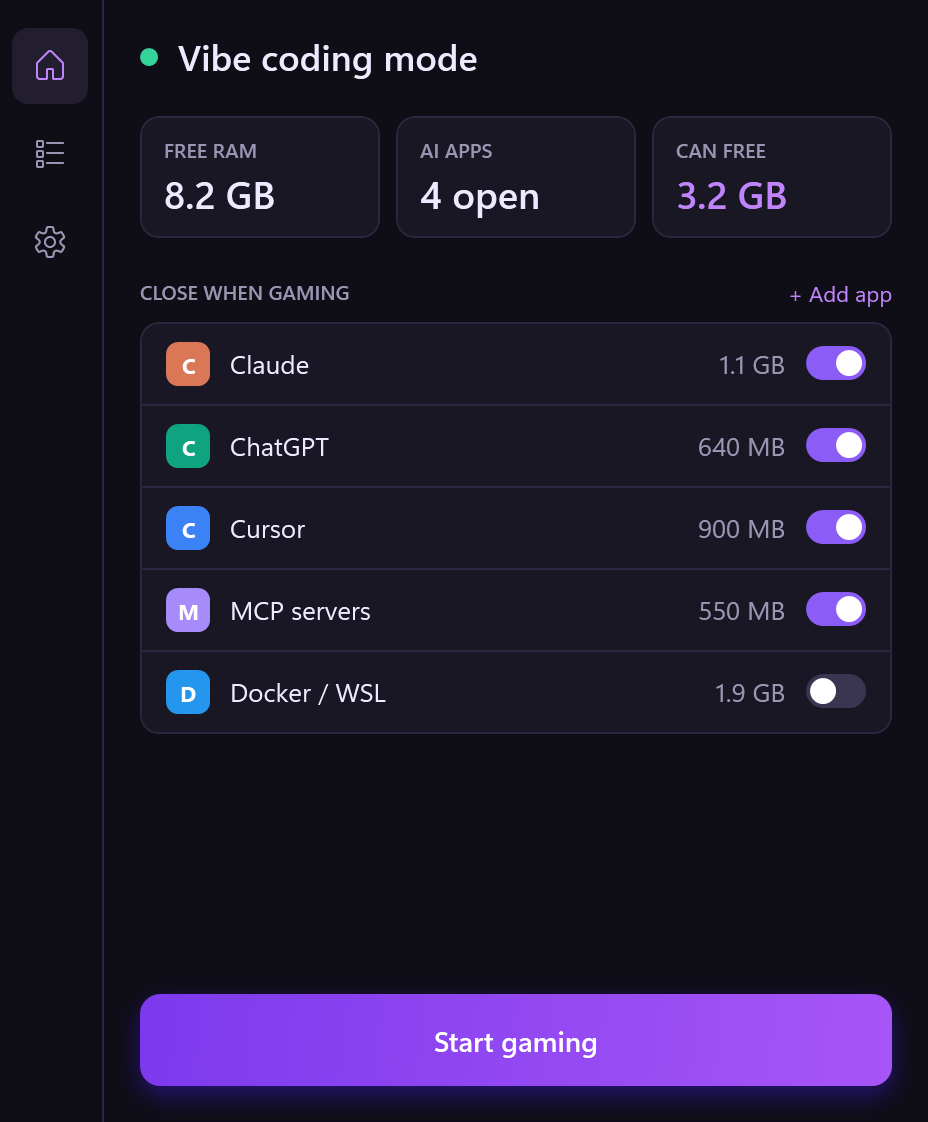
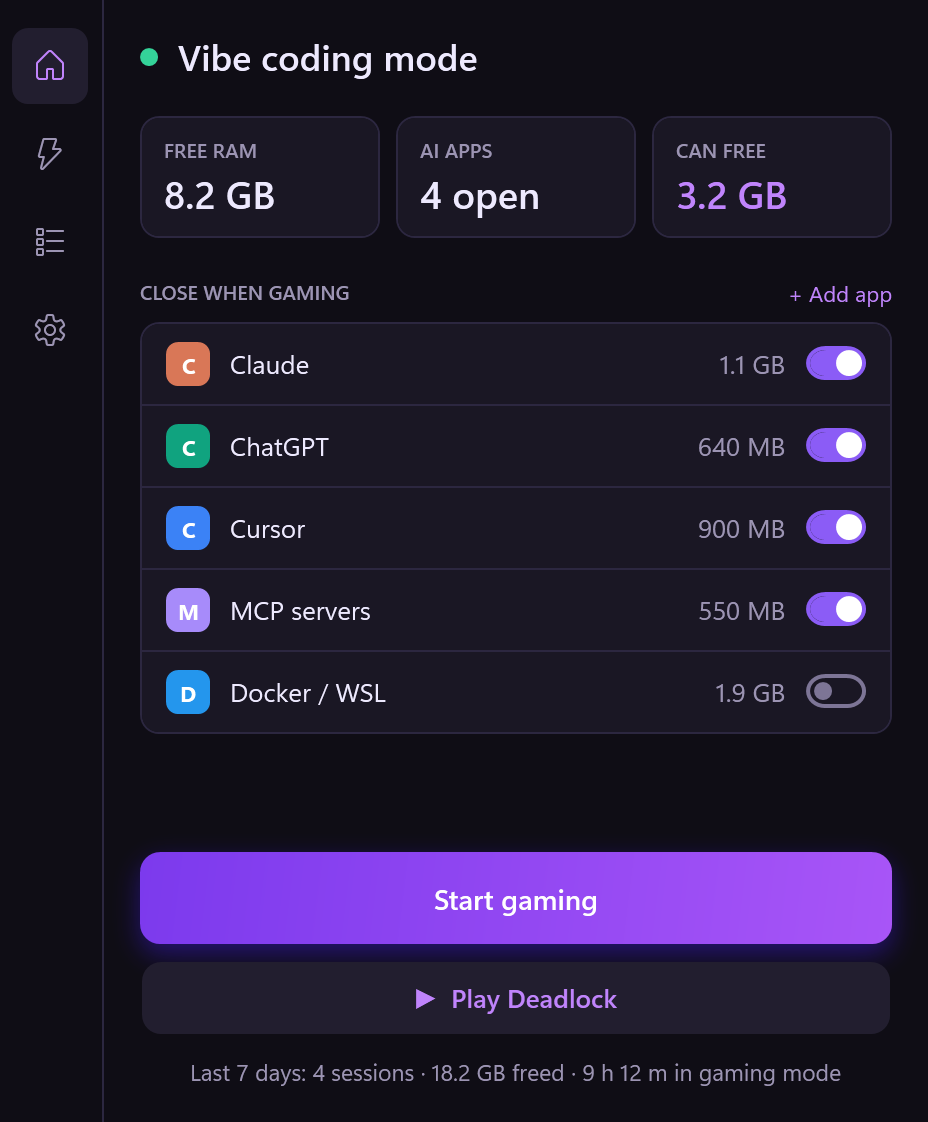
feat(ui): follow Windows High Contrast; name every control
With Windows High Contrast on, VibeShift kept its purple theme, ignoring
the colours the user picked to be able to read the screen. A fourth
theme dictionary now maps every brush to SystemColors (window, window
text, highlight, highlight text) and wins over the app's own theme; it
reloads when High Contrast is switched or changed (Accessibility/Color
preference events). Text and knobs on the accent were hardcoded White,
unreadable on a light system highlight, so they use a new OnAccentBrush
(White in Dark/Light, HighlightText in High Contrast). `--screenshot
--theme contrast` renders it with this PC's system colours.

Screen readers: the Theme and Force-close pickers had no name, every
Remove button was just "Remove app"/"Remove game", and a Vibe row's
status ("couldn't open") was unreachable from its switch. The pickers
are named, each Remove names its app or game, and the status is the
switch's HelpText.

README screenshots (from 1.0, before Play, stats and the new switches)
are regenerated from this build.

Found by the audit of 9a8e271 (findings 7 and 14).

diff --git a/src/VibeShift/MainWindow.xaml b/src/VibeShift/MainWindow.xaml
@@ -151,7 +151,8 @@
                                         <DockPanel>
                                             <CheckBox DockPanel.Dock="Right" Style="{StaticResource ToggleSwitch}" IsChecked="{Binding IsOpen}"
                                                       IsEnabled="{Binding CanSwitch}" VerticalAlignment="Center"
-                                                      AutomationProperties.Name="{Binding Name, StringFormat='{}{0} open'}" />
+                                                      AutomationProperties.Name="{Binding Name, StringFormat='{}{0} open'}"
+                                                      AutomationProperties.HelpText="{Binding Status}" />
                                             <Border Width="22" Height="22" CornerRadius="6" Background="{Binding BadgeBrush}">
                                                 <TextBlock Text="{Binding BadgeLetter}" Foreground="White" FontSize="11" FontWeight="Bold"
                                                            HorizontalAlignment="Center" VerticalAlignment="Center" />
@@ -254,7 +255,8 @@
                 <Border Style="{StaticResource Tile}">
                     <DockPanel>
                         <ListBox DockPanel.Dock="Right" Style="{StaticResource Segmented}" ItemsSource="{Binding ThemeOptions}"
-                                 DisplayMemberPath="Label" SelectedValuePath="Value" SelectedValue="{Binding Theme}" />
+                                 DisplayMemberPath="Label" SelectedValuePath="Value" SelectedValue="{Binding Theme}"
+                                 AutomationProperties.Name="Theme" />
                         <TextBlock Text="Theme" VerticalAlignment="Center" />
                     </DockPanel>
                 </Border>
@@ -293,7 +295,7 @@
                                 <DataTemplate>
                                     <DockPanel Margin="0,3,0,0">
                                         <Button DockPanel.Dock="Right" Style="{StaticResource IconButton}" Content="&#xE711;" Click="RemoveGame_Click"
-                                                ToolTip="Remove" AutomationProperties.Name="Remove game" />
+                                                ToolTip="Remove" AutomationProperties.Name="{Binding StringFormat='Remove {0}'}" />
                                         <TextBlock Text="{Binding}" ToolTip="{Binding}" VerticalAlignment="Center" TextTrimming="CharacterEllipsis" FontSize="12" />
                                     </DockPanel>
                                 </DataTemplate>
@@ -309,7 +311,8 @@
                         <TextBlock Style="{StaticResource Hint}" Margin="0,2,0,9"
                                    Text="When you click Start gaming, apps get this long to close on their own. Auto mode closes them right away." />
                         <ListBox Style="{StaticResource Segmented}" HorizontalAlignment="Left" ItemsSource="{Binding ForceCloseOptions}"
-                                 ItemStringFormat="{}{0} s" SelectedItem="{Binding ForceCloseSeconds}" />
+                                 ItemStringFormat="{}{0} s" SelectedItem="{Binding ForceCloseSeconds}"
+                                 AutomationProperties.Name="Force-close after" />
                     </StackPanel>
                 </Border>
 
@@ -494,7 +497,7 @@
                               AutomationProperties.Name="{Binding Name, StringFormat='Open {0} when vibing'}"
                               Visibility="{Binding CanVibe, Converter={StaticResource Visible}}" />
                     <Button Grid.Column="6" Style="{StaticResource IconButton}" Content="&#xE711;" Width="22" Click="RemoveApp_Click"
-                            ToolTip="Remove" AutomationProperties.Name="Remove app"
+                            ToolTip="Remove" AutomationProperties.Name="{Binding Name, StringFormat='Remove {0}'}"
                             Visibility="{Binding IsCustom, Converter={StaticResource Visible}}" />
                 </Grid>
             </Border>

diff --git a/src/VibeShift/Themes/HighContrast.xaml b/src/VibeShift/Themes/HighContrast.xaml
@@ -1,0 +1,21 @@
+<ResourceDictionary xmlns="http://schemas.microsoft.com/winfx/2006/xaml/presentation"
+                    xmlns:x="http://schemas.microsoft.com/winfx/2006/xaml">
+    <!-- Windows High Contrast: every key comes from the user's own contrast theme (read again whenever it changes).
+         Flat surfaces, text-coloured borders, the system highlight for accents and on-switches. -->
+    <x:Static x:Key="BgColor" Member="SystemColors.WindowColor" />
+    <x:Static x:Key="TextColor" Member="SystemColors.WindowTextColor" />
+    <x:Static x:Key="BgBrush" Member="SystemColors.WindowBrush" />
+    <x:Static x:Key="SurfaceBrush" Member="SystemColors.WindowBrush" />
+    <x:Static x:Key="RaisedBrush" Member="SystemColors.WindowBrush" />
+    <x:Static x:Key="BorderBrush" Member="SystemColors.WindowTextBrush" />
+    <x:Static x:Key="TextBrush" Member="SystemColors.WindowTextBrush" />
+    <x:Static x:Key="MutedBrush" Member="SystemColors.WindowTextBrush" />
+    <x:Static x:Key="AccentBrush" Member="SystemColors.HighlightBrush" />
+    <x:Static x:Key="HighlightBrush" Member="SystemColors.HighlightBrush" />
+    <x:Static x:Key="OnAccentBrush" Member="SystemColors.HighlightTextBrush" />
+    <x:Static x:Key="ToggleOffBrush" Member="SystemColors.WindowTextBrush" />
+    <x:Static x:Key="CodingDotBrush" Member="SystemColors.HighlightBrush" />
+    <x:Static x:Key="RunningTextBrush" Member="SystemColors.WindowTextBrush" />
+    <x:Static x:Key="GamingDotBrush" Member="SystemColors.HighlightBrush" />
+    <x:Static x:Key="ButtonGradientBrush" Member="SystemColors.HighlightBrush" />
+</ResourceDictionary>

diff --git a/src/VibeShift/Themes/Controls.xaml b/src/VibeShift/Themes/Controls.xaml
@@ -25,7 +25,7 @@
                         <Trigger Property="IsChecked" Value="True">
                             <Setter TargetName="Track" Property="Background" Value="{DynamicResource AccentBrush}" />
                             <Setter TargetName="Track" Property="BorderBrush" Value="{DynamicResource AccentBrush}" />
-                            <Setter TargetName="Knob" Property="Fill" Value="White" />
+                            <Setter TargetName="Knob" Property="Fill" Value="{DynamicResource OnAccentBrush}" />
                             <Setter TargetName="Knob" Property="Width" Value="13" />
                             <Setter TargetName="Knob" Property="Height" Value="13" />
                             <Setter TargetName="Knob" Property="Margin" Value="2,0" />
@@ -45,7 +45,7 @@
 
     <!-- Purple gradient call to action with a soft glow -->
     <Style x:Key="PrimaryButton" TargetType="Button">
-        <Setter Property="Foreground" Value="White" />
+        <Setter Property="Foreground" Value="{DynamicResource OnAccentBrush}" />
         <Setter Property="FontSize" Value="14" />
         <Setter Property="FontWeight" Value="SemiBold" />
         <Setter Property="Height" Value="46" />

diff --git a/src/VibeShift/Themes/Dark.xaml b/src/VibeShift/Themes/Dark.xaml
@@ -10,6 +10,7 @@
     <SolidColorBrush x:Key="MutedBrush" Color="#9c94b3" />
     <SolidColorBrush x:Key="AccentBrush" Color="#8b5cf6" />
     <SolidColorBrush x:Key="HighlightBrush" Color="#c084fc" />
+    <SolidColorBrush x:Key="OnAccentBrush" Color="White" />
     <!-- Off switches and scrollbar thumbs: 4.1:1 on Surface, 3.8:1 on Raised (WCAG 1.4.11 asks 3:1) -->
     <SolidColorBrush x:Key="ToggleOffBrush" Color="#7d7596" />
     <SolidColorBrush x:Key="CodingDotBrush" Color="#34d399" />

diff --git a/src/VibeShift/Themes/Light.xaml b/src/VibeShift/Themes/Light.xaml
@@ -10,6 +10,7 @@
     <SolidColorBrush x:Key="MutedBrush" Color="#6b6385" />
     <SolidColorBrush x:Key="AccentBrush" Color="#7c3aed" />
     <SolidColorBrush x:Key="HighlightBrush" Color="#7c3aed" />
+    <SolidColorBrush x:Key="OnAccentBrush" Color="White" />
     <!-- Off switches and scrollbar thumbs: 3.9:1 on white, 3.3:1 on Raised (WCAG 1.4.11 asks 3:1) -->
     <SolidColorBrush x:Key="ToggleOffBrush" Color="#857d9e" />
     <SolidColorBrush x:Key="CodingDotBrush" Color="#34d399" />

diff --git a/src/VibeShift/ThemeManager.cs b/src/VibeShift/ThemeManager.cs
@@ -20,16 +20,19 @@ public static class ThemeManager
 
     public static bool IsDark { get; private set; }
 
-    public static void Apply(ThemeChoice choice)
+    /// <param name="highContrast">Null follows Windows; the offscreen renderer forces it either way.</param>
+    public static void Apply(ThemeChoice choice, bool? highContrast = null)
     {
         current = choice;
-        IsDark = choice switch
+        // Windows High Contrast wins over the app's own theme: its colours are the user's, chosen to be readable.
+        bool contrast = highContrast ?? SystemParameters.HighContrast;
+        IsDark = contrast ? Luminance(SystemColors.WindowColor) < 0.5 : choice switch
         {
             ThemeChoice.Dark => true,
             ThemeChoice.Light => false,
             _ => SystemIsDark(),
         };
-        var name = IsDark ? "Dark" : "Light";
+        var name = contrast ? "HighContrast" : IsDark ? "Dark" : "Light";
         Application.Current.Resources.MergedDictionaries[0] =
             new ResourceDictionary { Source = new Uri($"pack://application:,,,/Themes/{name}.xaml") };
 
@@ -38,8 +41,10 @@ public static class ThemeManager
             hooked = true;
             SystemEvents.UserPreferenceChanged += (_, e) =>
             {
-                if (current == ThemeChoice.System && e.Category == UserPreferenceCategory.General)
-                    Application.Current.Dispatcher.BeginInvoke(() => Apply(ThemeChoice.System));
+                // Turning High Contrast on or off, or picking another contrast theme, arrives as Accessibility or Color.
+                if (e.Category is UserPreferenceCategory.Accessibility or UserPreferenceCategory.Color
+                    || (current == ThemeChoice.System && e.Category == UserPreferenceCategory.General))
+                    Application.Current.Dispatcher.BeginInvoke(() => Apply(current));
             };
         }
         foreach (Window w in Application.Current.Windows) ApplyChrome(w);
@@ -62,6 +67,8 @@ public static class ThemeManager
         Registry.GetValue(@"HKEY_CURRENT_USER\Software\Microsoft\Windows\CurrentVersion\Themes\Personalize", "AppsUseLightTheme", 1) is 0;
 
     private static int ColorRef(Color c) => c.R | (c.G << 8) | (c.B << 16);
+
+    private static double Luminance(Color c) => (0.2126 * c.R + 0.7152 * c.G + 0.0722 * c.B) / 255;
 
     [DllImport("dwmapi.dll")]
     private static extern int DwmSetWindowAttribute(IntPtr hwnd, int attribute, ref int value, int size);

diff --git a/src/VibeShift/App.xaml.cs b/src/VibeShift/App.xaml.cs
@@ -356,7 +356,7 @@ public partial class App : Application
     /// <summary>--screenshot: renders the window with the mockup's sample data to a 2x PNG and exits. Touches no processes.</summary>
     private void Screenshot(string png, string theme, string demoMode, string page, bool bottom)
     {
-        ThemeManager.Apply(theme == "light" ? ThemeChoice.Light : ThemeChoice.Dark);
+        ThemeManager.Apply(theme == "light" ? ThemeChoice.Light : ThemeChoice.Dark, highContrast: theme == "contrast");
         var demoVm = new MainViewModel(new JsonStore(Path.GetTempPath()), new Settings(), demo: true);
         demoVm.LoadDemo(demoMode == "gaming" ? Mode.Gaming : Mode.Coding);
         var w = new MainWindow(demoVm)
